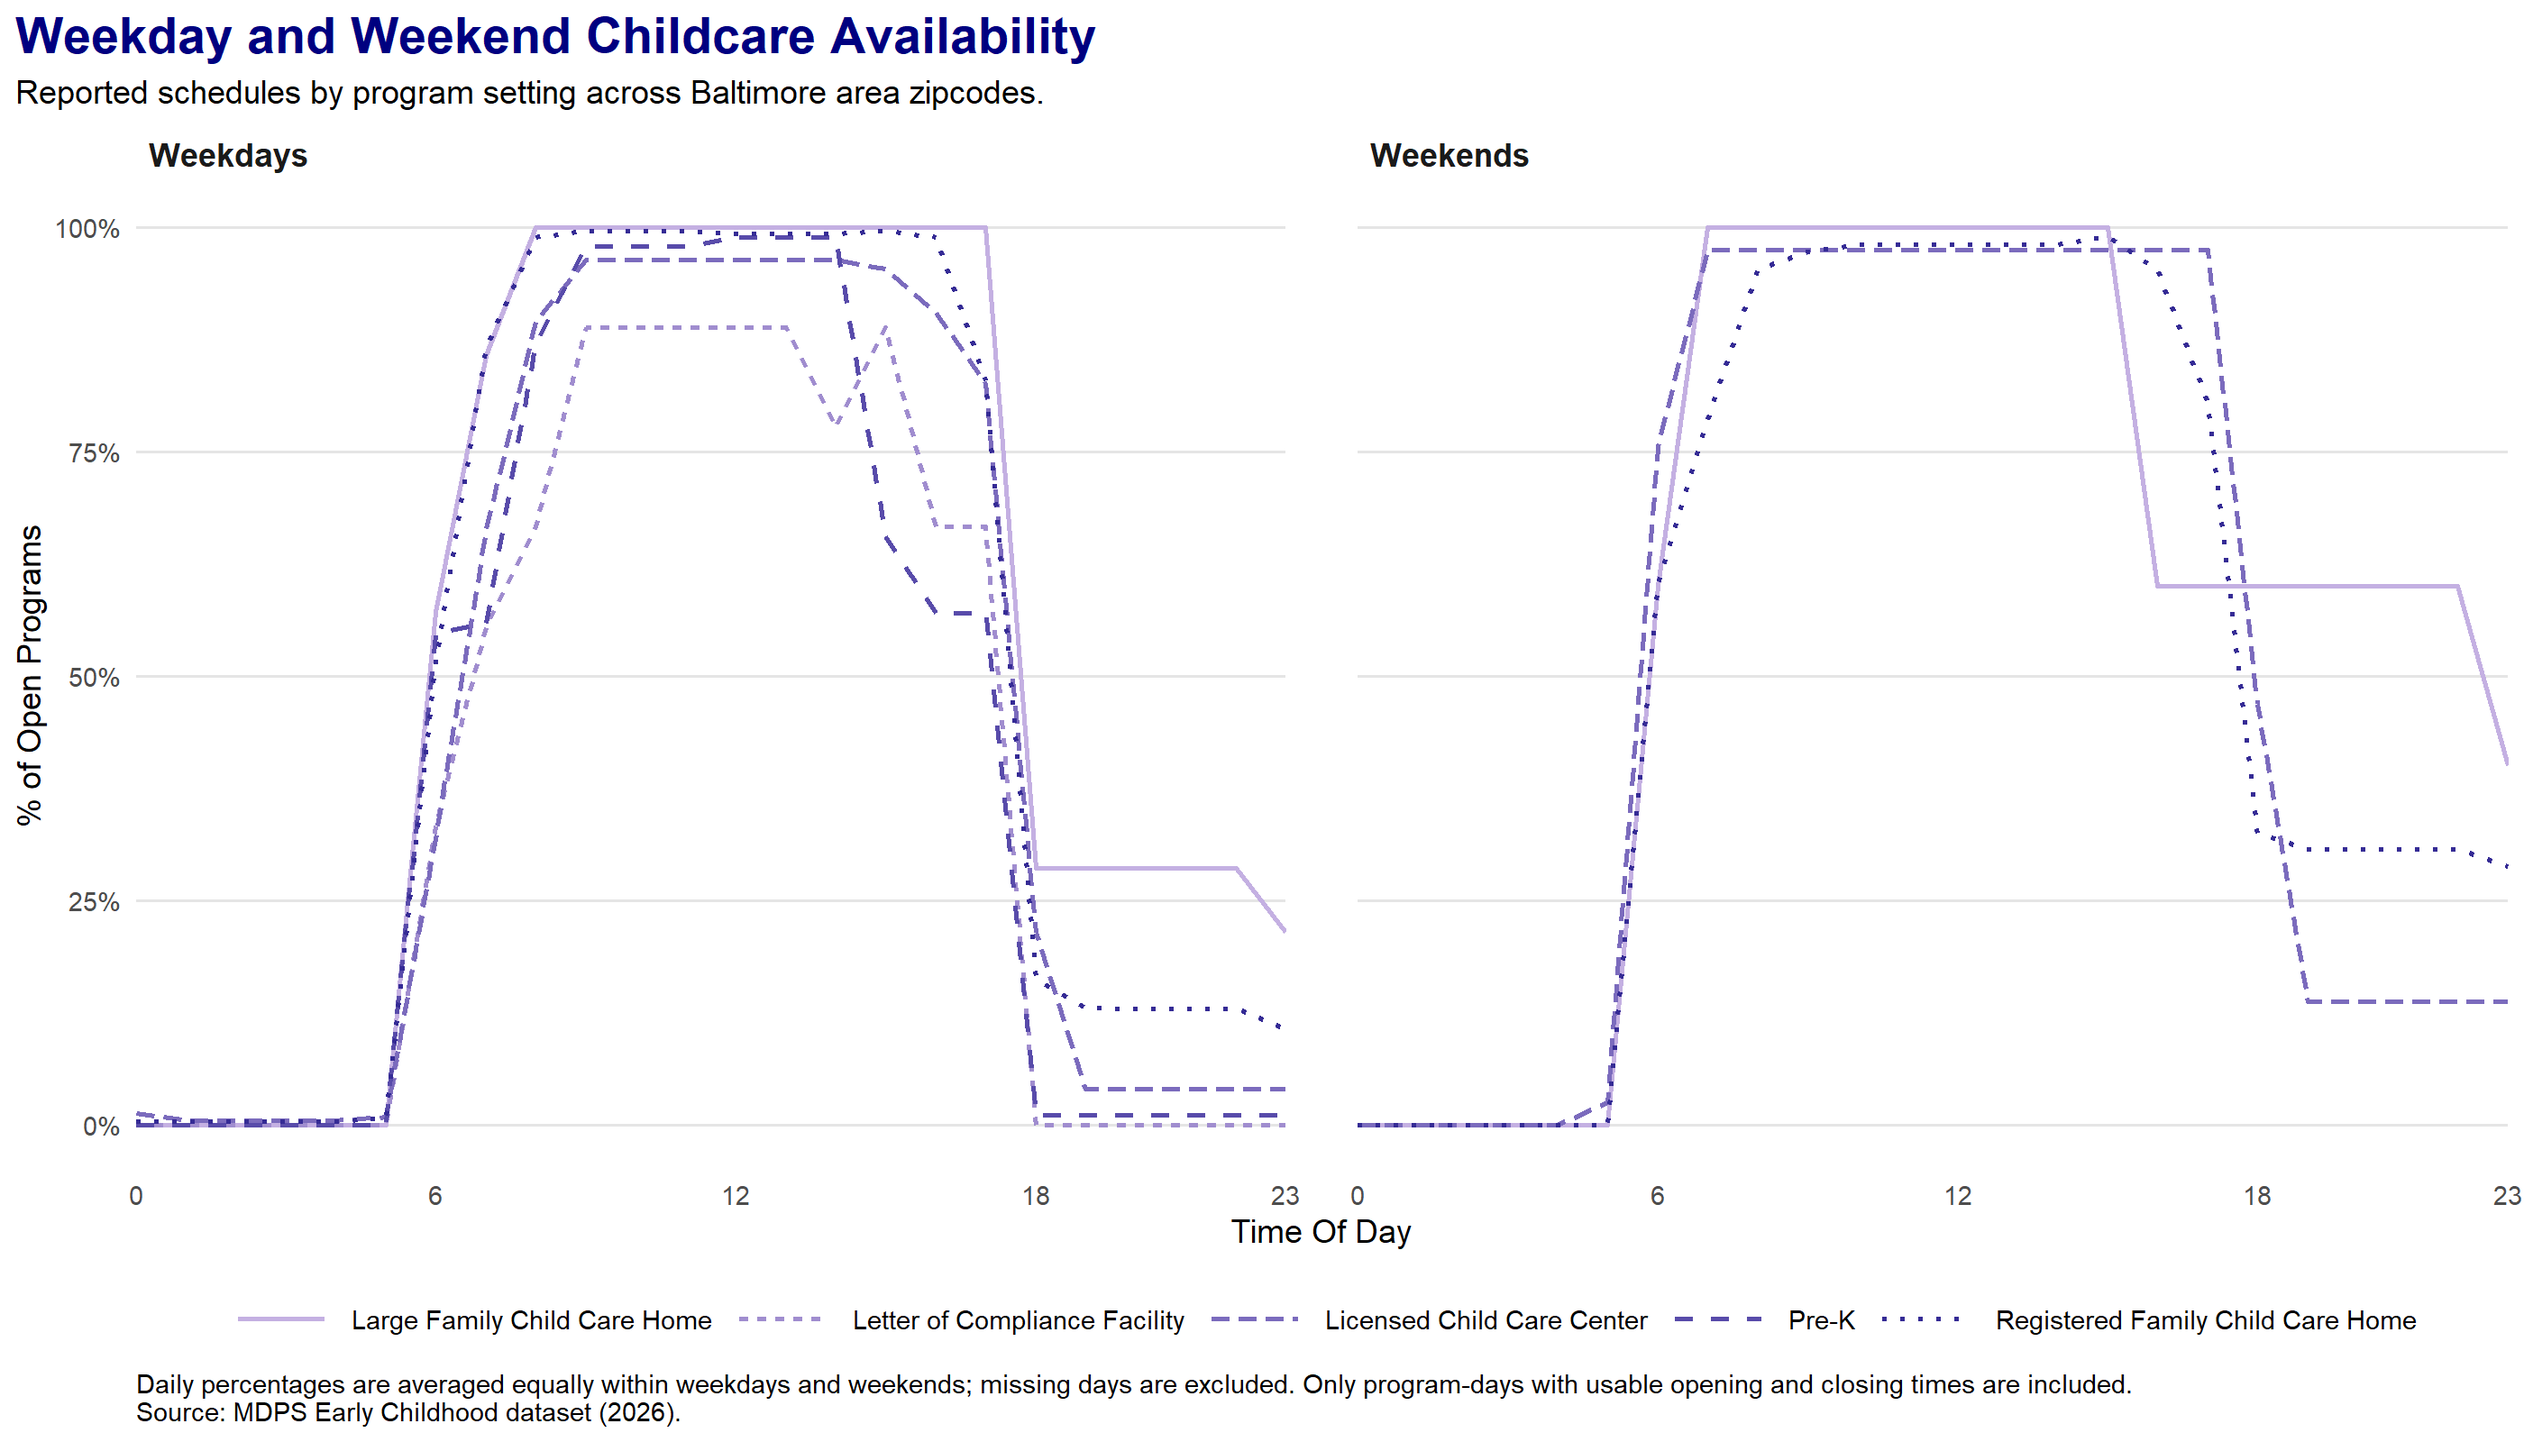
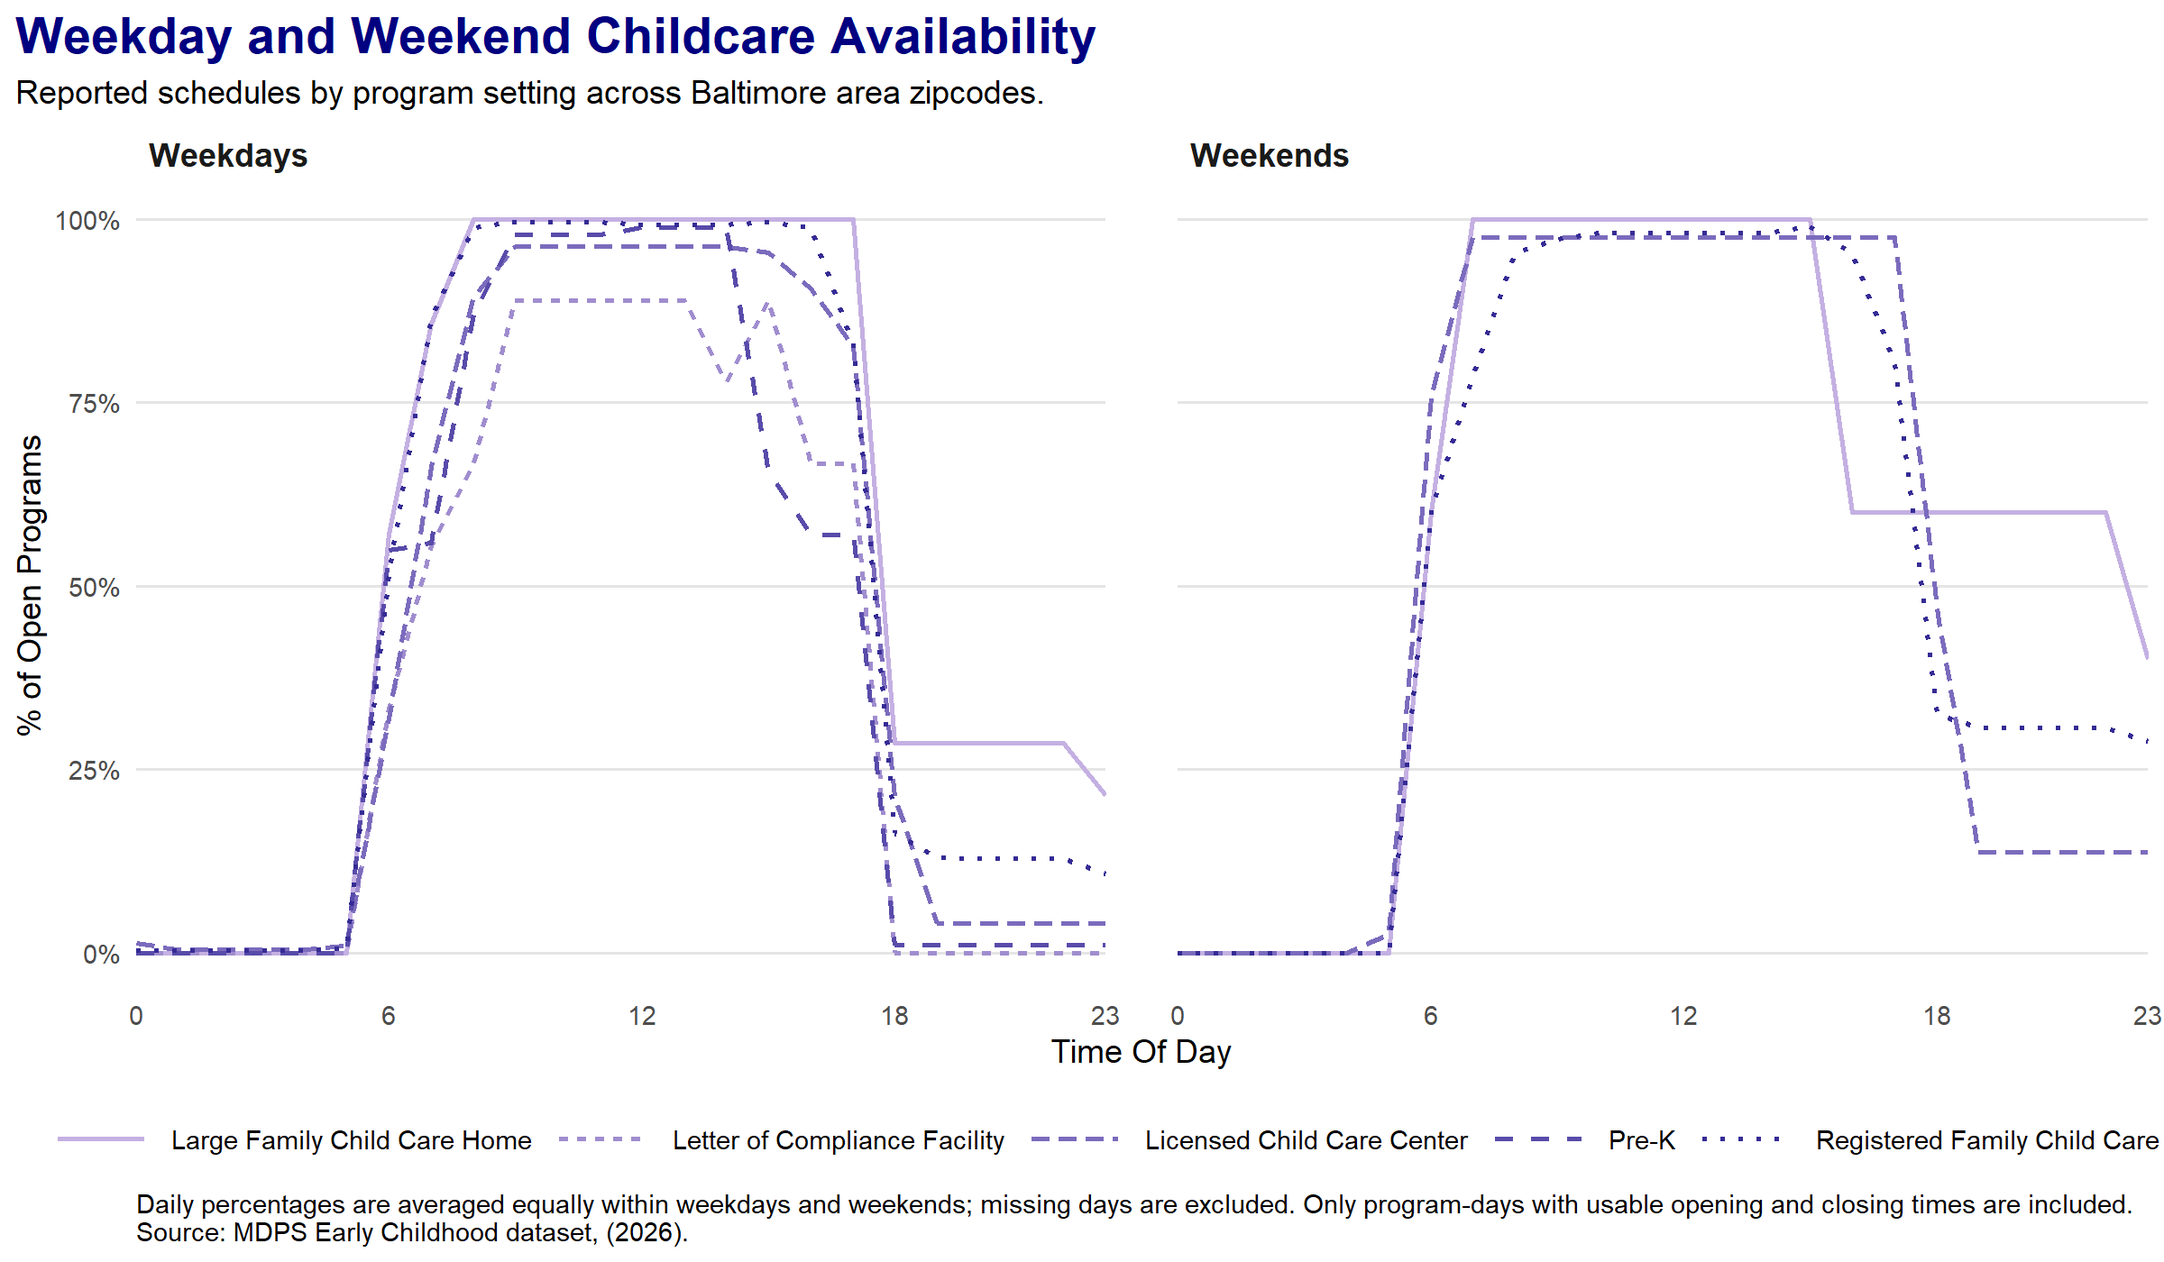
finalized the final draft

diff --git a/code/03_final_draft.md b/code/03_final_draft.md
@@ -21,16 +21,101 @@ included.
 
 This chunk is the data loading code for the project.
 
+``` r
+library(ggplot2)
+library(dplyr)
+library(tidyr)
+    #If ggmosiac isnt downlaoed use this to get it pulling from github.
+        #install.packages("pak")
+        #pak::pkg_install("haleyjeppson/ggmosaic")
+library(ggmosaic)
 
-    Attaching package: 'dplyr'
+      childcare_eda <- read.csv(
+        "../data/MDPS Early Childhood Dev.csv",
+        stringsAsFactors = FALSE
+      ) |>
+        filter(
+          !is.na(address),
+          address != ""
+        )
 
-    The following objects are masked from 'package:stats':
+      setting_colors <- c(
+        "Large Family Child Care Home" = "#C4B0E2",
+        "Letter of Compliance Facility" = "#A08DCF",
+        "Licensed Child Care Center" = "#7B6BBD",
+        "Pre-K" = "#584BAA",
+        "Registered Family Child Care Home" = "#352B95"
+      )
 
-        filter, lag
+# mosaic-setup
 
-    The following objects are masked from 'package:base':
+      program_setting_counts <- childcare_eda |>
+        dplyr::filter(!is.na(zipcode),
+                      trimws(as.character(zipcode)) !="",
+                      !is.na(gen_program_setting_detail),
+                      gen_program_setting_detail !=""
+        ) |>
+        dplyr::mutate(zipcode = factor(zipcode),
+                      gen_program_setting_detail = factor(gen_program_setting_detail)
+        ) |> 
+        dplyr::group_by(zipcode, gen_program_setting_detail) |>
+        dplyr::summarise(program_records = dplyr::n(),
+                         .groups = "drop")
 
-        intersect, setdiff, setequal, union
+# heatmap-setup 
+      
+      day_order <- c(
+        "Monday", "Tuesday", "Wednesday", "Thursday",
+        "Friday", "Saturday", "Sunday"
+      )
+      availability <- childcare_eda |>
+        dplyr::select(
+          setting = gen_program_setting_detail,
+          dplyr::ends_with(".Time")
+        ) |>
+        tidyr::pivot_longer(
+          cols = dplyr::ends_with(".Time"),
+          names_to = c("day", ".value", NA),
+          names_sep = "\\."
+        ) |>
+        dplyr::mutate(
+          opening = as.numeric(as.difftime(trimws(Start), units = "hours")
+          ),
+          closing = as.numeric(as.difftime(trimws(End), units = "hours")
+          ),
+          day = factor(day, levels = day_order)
+        ) |>
+        tidyr::drop_na(opening, closing) |>
+        tidyr::uncount(24, .id = "hour") |>
+        dplyr::mutate(hour = hour - 1,
+                      open = ifelse(
+                        closing < opening,
+                        hour >= opening | hour < closing,
+                        hour >= opening & hour < closing
+                      )
+        ) |>
+        dplyr::group_by(setting, day, hour) |>
+        dplyr::summarise(
+          percent_open = mean(open) * 100,
+          .groups = "drop"
+        ) |>
+        tidyr::complete(setting, day, hour = 0:23)
+
+# Lne-chart-setup
+
+      availability_groups_day <- availability |>
+        mutate(
+          day_group = ifelse(
+            day %in% c("Saturday", "Sunday"),
+            "Weekends", "Weekdays"
+          )
+        ) |>
+        group_by(setting, day_group, hour) |>
+        summarise(
+          percent_open = mean(percent_open, na.rm = TRUE),
+          .groups = "drop"
+        )
+```
 
 # Program Settings
 
@@ -40,6 +125,21 @@ distribution of programs in the Zipcodes. The data has been pivoted so
 each zipcode is seen more then once for all the settings within it, the
 program records then shows the count of programs in that setting and
 Zipcode.
+
+``` r
+program_setting_table <- childcare_eda |>
+  dplyr::filter(!is.na(gen_program_setting_detail),
+                gen_program_setting_detail != ""
+                ) |>
+  dplyr::group_by(zipcode, gen_program_setting_detail) |>
+  dplyr::summarise(program_records = dplyr::n(),
+                   .groups = "drop"
+  )|>
+  dplyr::arrange(zipcode, dplyr::desc(program_records))
+  knitr::kable(program_setting_table, format = "pipe", col.names = c("Zipcodes", "Program Settings", "Program Records"),
+               caption = "Program records by Zipcode and setting.Source: MDPS Early Childhood Development dataset, 2026."
+  )
+```
 
 | Zipcodes | Program Settings                  | Program Records |
 |---------:|:----------------------------------|----------------:|
@@ -134,12 +234,16 @@ Development dataset, 2026.
 
 # Program Setting Across Zipcodes
 
-Thus mosaic compares the mux of childcare programs settings across The
-baltimore areas Zipcodes. colored segments heights show each setting’s
-percentage within a Zip. Lables show the number of program records
-follwoed by the zip code. The bigger sections in the chart are meant to
-represent the zicosdes with the larger protion of programs, though for
-readablity the Zipcodes with fewer then 12 records were enla
+Thus mosaic compares the mix of childcare programs settings across The
+Baltimore areas Zipcodes. colored segments heights show each setting’s
+percentage within a Zip. Labels show the number of program records
+followed by the zip code.
+
+The bigger sections in the chart are meant to represent the Zipcodes
+with the larger portion of programs, though for readability the Zipcodes
+with fewer then 12 records were scaled up so. Some Zipcodes only have
+one program so they weren’t even visible. Since the scaling lost some
+validity for the display the count was also added before the Zipcodes.
 
 ``` r
 mosaic_data <- program_setting_counts |> 
@@ -158,10 +262,7 @@ program_setting_chart <- ggplot(data = mosaic_data) +
                   weight = weight),
               color = "white",
               offset = 0) +
-  scale_fill_manual(
-    values = colorRampPalette(c("#B39DDB", "navy"))(
-      dplyr::n_distinct(mosaic_data$gen_program_setting_detail))
-  ) +
+  scale_fill_manual(values = setting_colors)+
   labs(
     title = "Childcare Program Settings by Zipcodes",
     subtitle = "Wider zipcode sections contain more recorded programs; color show the composition of program settings. Parentheses after the zipcode show the program record counts.",
@@ -169,10 +270,8 @@ program_setting_chart <- ggplot(data = mosaic_data) +
     y = NULL,
     fill = NULL,
     caption = paste0(
-      "ZIP width represents total program records; colored segment height shows share within ZIP.\n",
-      "Counts represent program records, not childcare capacity or available places.\n",
-      "Source: MDPS Early Childhood Development dataset (2026)."
-    )
+      "Colored height shows setting share within each ZIP. Labels show actual record counts.\nZIPs with fewer than 12 records are enlarged; widths are not exactly proportional to counts.\n", "Counts represent program records, not childcare capacity or available places.\n", 
+      "Source: MDPS Early Childhood Development dataset,(2026).")
   ) +
   
   theme_minimal(base_size = 13) +
@@ -204,23 +303,192 @@ data-fig-alt="Mosaic chart of childcare settings across Baltimore area zip Codes
 ggsave(
   "../plots/green-program-settings-and-counts-by-zip.png",
   plot = program_setting_chart,
-  width = 18,
+  width = 14,
+  height = 8,
+  dpi = 300,
+  bg = "white"
+)
+```
+
+# Weekly Childcare Availability
+
+The heatmap here shows the operating schedule throughout the week for
+each type of setting. Each time shows the percentage of that setting
+type that is open on that day. The darker the color the higher the
+percentage of open programs, gray shows the lack of open programs.
+
+``` r
+availability_heatmap <- ggplot(
+  availability,
+  aes(x = hour, y = day, fill = percent_open)
+) +
+  geom_tile(color = "white", linewidth = 0.3) +
+  facet_wrap(~ setting, ncol = 1) +
+  scale_x_continuous(
+    breaks = seq(0, 23, 2),
+    expand = c(0, 0)
+  ) +
+  scale_y_discrete(
+    limits = rev(day_order),
+    labels = function(x) substr(x, 1, 3),
+    drop = FALSE
+  ) +
+  scale_fill_gradient(
+    low = "grey95",
+    high = "navy",
+    limits = c(0, 100),
+    na.value = "grey95"
+  ) +
+  guides(
+    fill = guide_colorbar(
+      direction = "horizontal",
+      title.position = "top",
+      title.hjust = 0
+    )
+  ) +
+  labs(
+    title = "Weekly Childcare Availability",
+    subtitle = "Reported schedules by program setting across the Zipcodes i the Baltimore Area",
+    x = "Time of day",
+    y = NULL,
+    fill = "% Of Open Programs",
+    caption = paste0(
+      "Tiles show the percentage open at the start of each hour among programs with usable times for that day.\nGrey represents either 0% open or missing schedules. Schedules do not indicate vacancies.\n", 
+      "Source: MDPS Early Childhood Development dataset, (2026)" ) ) +
+  theme(
+    panel.grid = element_blank(),
+    strip.background = element_blank(),
+    strip.text.x = element_text(
+      face = "bold", hjust = 0, size = 12),
+    plot.title.position = "plot",
+    plot.title = element_text(
+      face = "bold", size = 20, color = "navy"),
+    plot.subtitle = element_text(margin = margin(b = 35)),
+    legend.position = "inside",
+    legend.position.inside = c(1, 1.06),
+    legend.justification = c(1, 0),
+    legend.background = element_blank(),
+    plot.caption = element_text(hjust = 0)
+  )
+
+availability_heatmap
+```
+
+<img
+src="03_final_draft_files/figure-commonmark/heatmap_program-avaibility-1.png"
+data-fig-alt="The Heatmaps here show the reported childcare opertaing schedules by program setting across Baltimore area zip codes. Each panel shows Monday-Sunday and hours from 0-23. Darker blues indicate a higher precentage of programs with useable schedules open at the start of the hour. Lighter grey represents zero precent open." />
+
+``` r
+ggsave(
+  "../plots/green-weekly-childcare-availability.png",
+  plot = availability_heatmap,
+  width = 9,
   height = 10,
   dpi = 300,
   bg = "white"
 )
 ```
 
-summary
+# Weekday and Weekend Availability
 
-summary of setup
+This chart while similar to the last was designed to highlight the
+averages of programs open versus each other instead of just the time/day
+availability. The daily percentages are averaged equally within each
+group, excluding missing days The high percentage over weekends does not
+mean there are the same number of programs running during the weekend
+and weekends, instead its looking at the percentage normalized by the
+number open during those times.  
 
-<img
-src="03_final_draft_files/figure-commonmark/heatmap_program-avaibility-1.png"
-data-fig-alt="The Heatmaps here show the reported childcare opertaing schedules by program setting across Baltimore area zip codes. Each panel shows Monday-Sunday and hours from 0-23. Darker blues indicate a higher precentage of programs with useable schedules open at the start of the hour. Lighter grey represents zero precent open." />
-
-summary  
+``` r
+availability_line <- ggplot(availability_groups_day,
+                            aes(x = hour, y = percent_open, color = setting, linetype = setting)) +
+  geom_line(linewidth = 1, na.rm = TRUE) +
+  facet_wrap(~ day_group, ncol = 2) +
+  scale_x_continuous(
+    breaks = c(0, 6, 12, 18, 23),
+    expand = c(0, 0)
+  ) +
+  scale_y_continuous(
+    limits = c(0, 100),
+    breaks = seq(0, 100, 25),
+    labels = function(x) paste0(x, "%")
+  ) +
+  scale_color_manual( values =  setting_colors) + 
+  labs(
+    title = "Weekday and Weekend Childcare Availability",
+    subtitle = "Reported schedules by program setting across Baltimore area zipcodes.",
+    x = "Time Of Day",
+    y = "% of Open Programs",
+    color = NULL,
+    linetype = NULL,
+    caption = paste0(
+      "Daily percentages are averaged equally within weekdays and weekends; missing days are excluded. Only program-days with usable opening and closing times are included.\n",
+      "Source: MDPS Early Childhood dataset, (2026)."
+    )
+  ) +
+  theme_minimal(base_size = 13) +
+  theme(
+    panel.grid.major.x = element_blank(),
+    panel.grid.minor = element_blank(),
+    panel.grid.major.y = element_line(color = "grey90"),
+    panel.spacing.x = grid::unit(2, "lines"),
+    strip.text = element_text(
+      face = "bold", hjust = 0, size = 13
+    ),
+    plot.title.position = "plot",
+    plot.title = element_text(
+      face = "bold", size = 20, color = "navy"
+    ),
+    legend.position = "bottom",
+    legend.key.width = grid::unit(3, "lines"),
+    plot.caption = element_text(hjust = 0)
+  ) +
+    guides(
+      color = guide_legend(nrow = 1),
+      linetype = guide_legend(nrow = 1)
+    )
+  
+availability_line
+```
 
 <img
 src="03_final_draft_files/figure-commonmark/availability-weekdays-weekends-1.png"
 data-fig-alt="Here are two line charts that compare avergae reported childcare avalability on weekdays and weekends across Baltimore area program settings. Color and line patterns distinguish settings. Poth parts show time of day in hour format and prencetage from 0 to 100." />
+
+``` r
+  ggsave(
+    "../plots/green-weekday-weekend-availability.png",
+    plot = availability_line,
+    width = 12,
+    height = 7,
+    dpi = 300,
+    bg = "white"
+  )
+```
+
+# Footnote
+
+I found this data really interesting because it showed big differences
+in where childcare programs are located and when they report being open.
+It made me think more about access across places and throughout the
+week, even though schedules alone don’t tell us whether families can
+actually find care. Normally, I would have tried showing this through
+maps, so I’m glad I got to explore it through charts instead.
+
+The mosaic is the chart I’m most proud of. I knew from the start that I
+wanted a stacked chart, but after seeing the mosaic and reading its
+documentation, I got excited to try it. The ZIP labels and legend still
+aren’t exactly what I wanted. With more time, I would add a light-grey
+background behind every other ZIP to make the labels easier to connect
+to the chart. I also wanted the legend to show total counts to the left
+of each color key and the setting name to the right.
+
+I love the heatmap and am really happy with how it turned out! The
+examples in the[JustViz course
+notes](https://umbc-viz.github.io/ges778/notes/proj1_work_sesh.html)
+were a huge help with putting it together (Seaberry, 2026).
+
+The line chart is the one I’m least happy with visually, but it shows
+something I really wanted to explore. The weekly heatmap kept making me
+wonder how weekdays and weekends compared, so I’m happy I got to
+visualize that, even if the design still needs some work.
